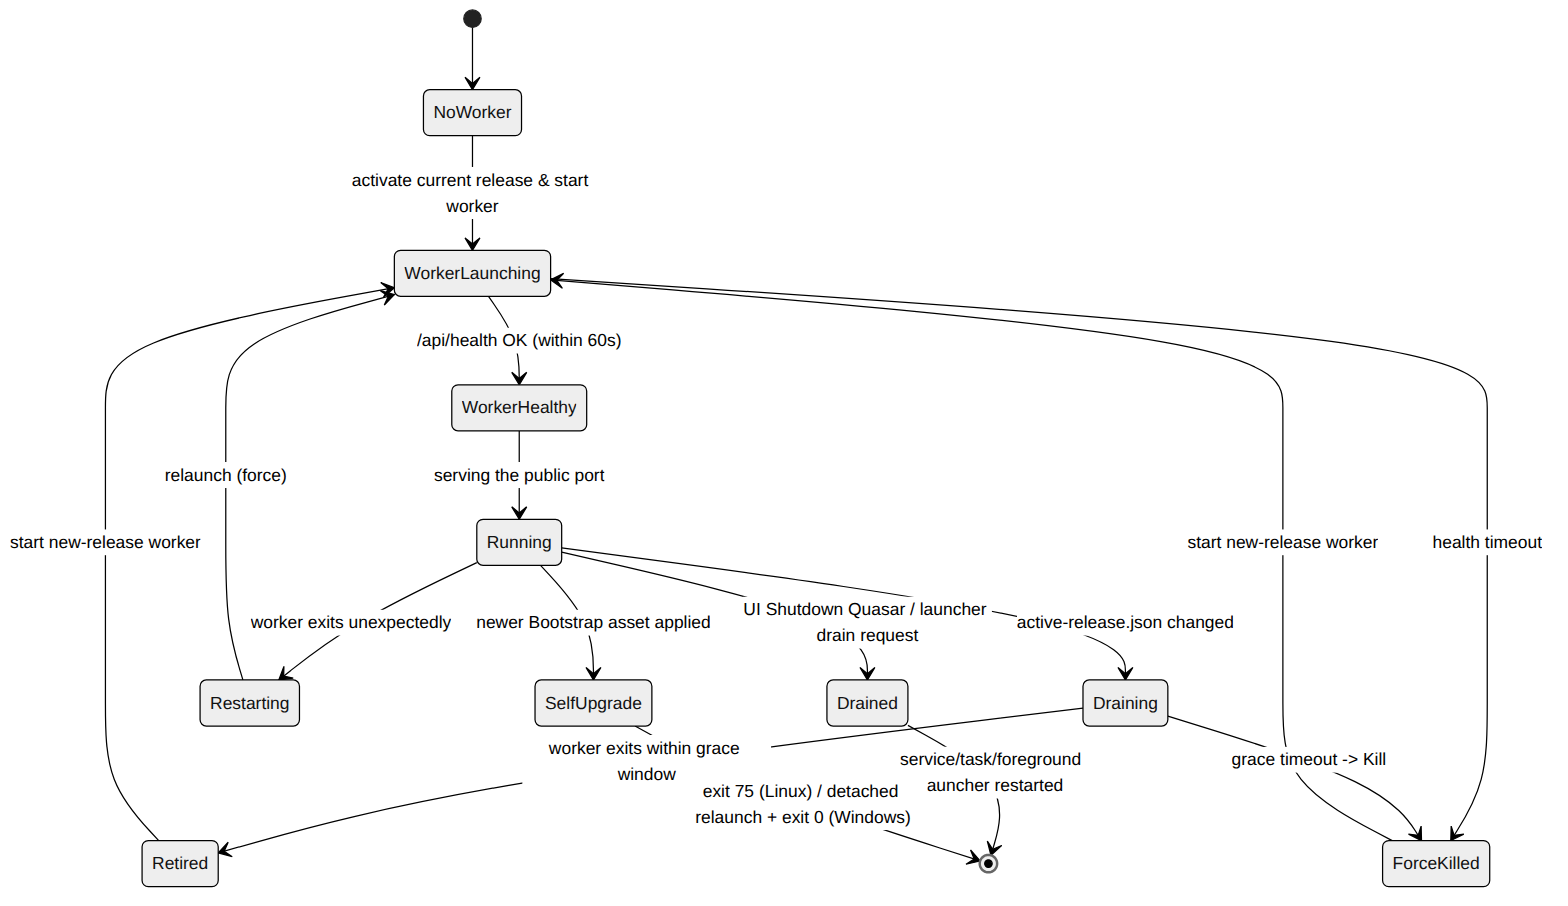
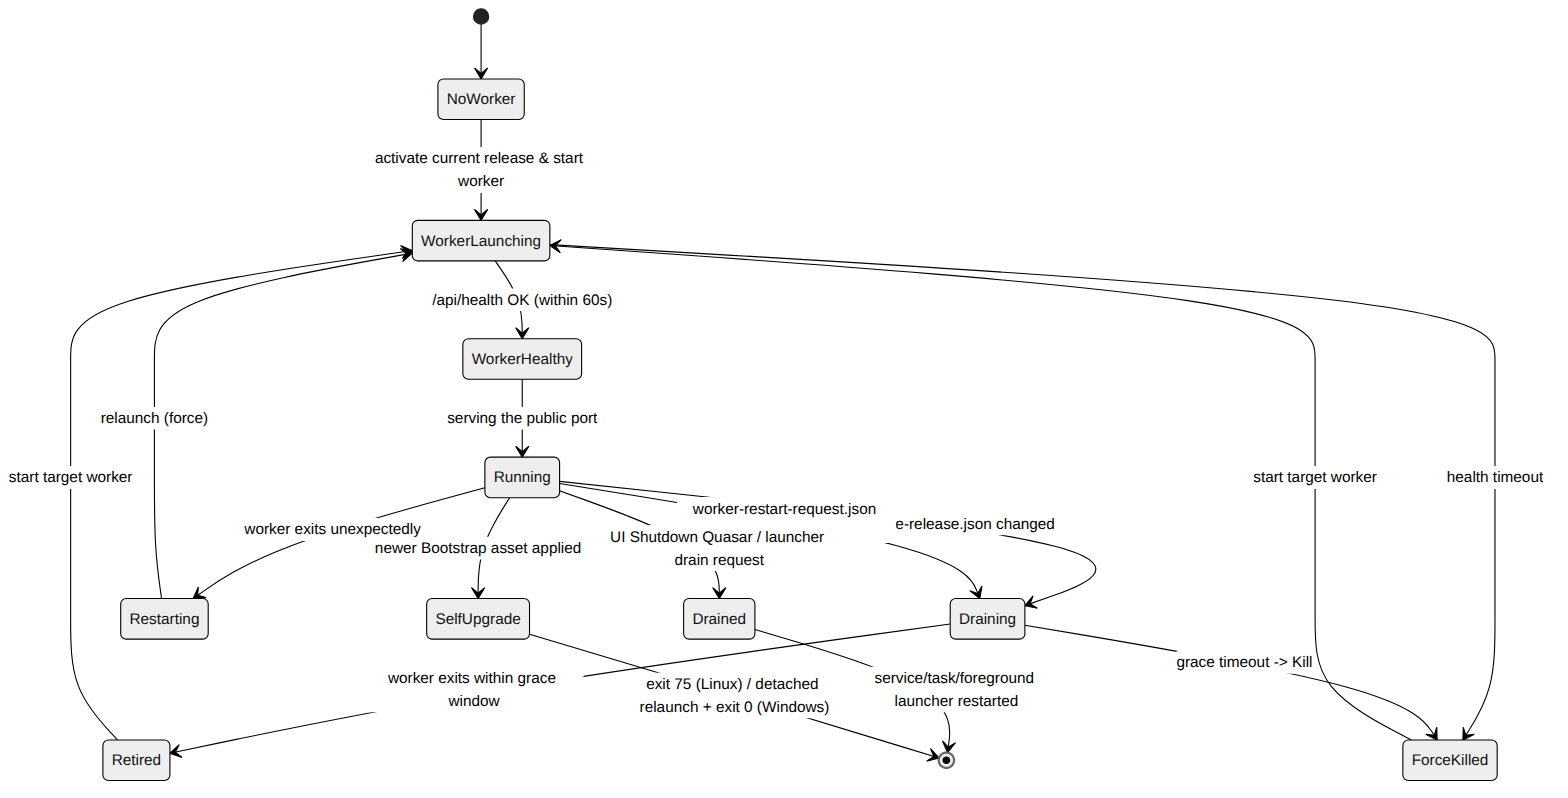
fix(ui-plugins): restart through Bootstrap
UI plugin changes keep the same active release pointer, so Bootstrap did not run the cutover path used by web UI updates.

Write a worker restart request that Bootstrap consumes to drain and relaunch the current active release, with a direct-stop fallback for older launchers.

diff --git a/Quasar.Bootstrap/Program.cs b/Quasar.Bootstrap/Program.cs
@@ -802,6 +802,8 @@ internal sealed class LauncherCoordinator : IHostedService, IDisposable
     private Task? _bootstrapUpdateMonitorTask;
     private FileSystemWatcher? _bootstrapUpdateRequestWatcher;
     private CancellationTokenSource? _bootstrapUpdateRequestDebounce;
+    private FileSystemWatcher? _workerRestartRequestWatcher;
+    private CancellationTokenSource? _workerRestartRequestDebounce;
     private readonly SemaphoreSlim _bootstrapUpdateLock = new(1, 1);
     private WorkerProcessHandle? _currentWorker;
     private bool _isStopping;
@@ -885,11 +887,14 @@ internal sealed class LauncherCoordinator : IHostedService, IDisposable
         Directory.CreateDirectory(MagnetarPaths.GetQuasarUpdatesDirectory());
         if (TryConsumeLauncherShutdownRequest())
             _logger.LogInformation("Cleared stale Quasar launcher drain request on startup.");
+        if (TryConsumeWorkerRestartRequest())
+            _logger.LogInformation("Cleared stale Quasar worker restart request on startup.");
 
         await EnsureInitialWebReleaseAvailableAsync(cancellationToken).ConfigureAwait(false);
         EnsureActiveReleasePointerExists();
         await ActivateCurrentReleaseAsync(force: false, cancellationToken).ConfigureAwait(false);
         StartWatchingReleasePointer();
+        StartWatchingWorkerRestartRequests();
         StartBootstrapUpdateMonitor();
         StartWatchingBootstrapUpdateRequests();
     }
@@ -904,6 +909,9 @@ internal sealed class LauncherCoordinator : IHostedService, IDisposable
         _bootstrapUpdateRequestWatcher?.Dispose();
         _bootstrapUpdateRequestDebounce?.Cancel();
         _bootstrapUpdateRequestDebounce?.Dispose();
+        _workerRestartRequestWatcher?.Dispose();
+        _workerRestartRequestDebounce?.Cancel();
+        _workerRestartRequestDebounce?.Dispose();
 
         WorkerProcessHandle? worker;
         lock (_sync)
@@ -937,6 +945,9 @@ internal sealed class LauncherCoordinator : IHostedService, IDisposable
         _bootstrapUpdateRequestWatcher?.Dispose();
         _bootstrapUpdateRequestDebounce?.Cancel();
         _bootstrapUpdateRequestDebounce?.Dispose();
+        _workerRestartRequestWatcher?.Dispose();
+        _workerRestartRequestDebounce?.Cancel();
+        _workerRestartRequestDebounce?.Dispose();
         _activationLock.Dispose();
         _bootstrapUpdateLock.Dispose();
         _healthClient.Dispose();
@@ -952,6 +963,64 @@ internal sealed class LauncherCoordinator : IHostedService, IDisposable
         _bootstrapUpdateMonitorTask = Task.Run(
             () => RunBootstrapUpdateMonitorAsync(_bootstrapUpdateMonitor.Token),
             CancellationToken.None);
+    }
+
+    private void StartWatchingWorkerRestartRequests()
+    {
+        var path = MagnetarPaths.GetQuasarWorkerRestartRequestPath();
+        var directory = Path.GetDirectoryName(path)!;
+        Directory.CreateDirectory(directory);
+
+        _workerRestartRequestWatcher = new FileSystemWatcher(directory)
+        {
+            Filter = Path.GetFileName(path),
+            NotifyFilter = NotifyFilters.FileName | NotifyFilters.LastWrite | NotifyFilters.CreationTime | NotifyFilters.Size,
+        };
+
+        _workerRestartRequestWatcher.Changed += HandleWorkerRestartRequestChanged;
+        _workerRestartRequestWatcher.Created += HandleWorkerRestartRequestChanged;
+        _workerRestartRequestWatcher.Renamed += HandleWorkerRestartRequestChanged;
+        _workerRestartRequestWatcher.EnableRaisingEvents = true;
+
+        if (File.Exists(path))
+            QueueWorkerRestartRequest();
+    }
+
+    private void HandleWorkerRestartRequestChanged(object sender, FileSystemEventArgs args)
+    {
+        QueueWorkerRestartRequest();
+    }
+
+    private void QueueWorkerRestartRequest()
+    {
+        CancellationTokenSource debounce;
+        lock (_sync)
+        {
+            _workerRestartRequestDebounce?.Cancel();
+            _workerRestartRequestDebounce?.Dispose();
+            _workerRestartRequestDebounce = new CancellationTokenSource();
+            debounce = _workerRestartRequestDebounce;
+        }
+
+        _ = Task.Run(async () =>
+        {
+            try
+            {
+                await Task.Delay(TimeSpan.FromMilliseconds(250), debounce.Token);
+                if (!TryConsumeWorkerRestartRequest())
+                    return;
+
+                _logger.LogInformation("Quasar worker restart requested by current worker.");
+                await RestartCurrentWorkerAsync(CancellationToken.None).ConfigureAwait(false);
+            }
+            catch (OperationCanceledException) when (debounce.IsCancellationRequested)
+            {
+            }
+            catch (Exception exception)
+            {
+                _logger.LogWarning(exception, "Requested Quasar worker restart failed.");
+            }
+        }, CancellationToken.None);
     }
 
     private void StartWatchingBootstrapUpdateRequests()
@@ -1630,6 +1699,64 @@ internal sealed class LauncherCoordinator : IHostedService, IDisposable
         }
     }
 
+    private async Task RestartCurrentWorkerAsync(CancellationToken cancellationToken)
+    {
+        if (IsDrained())
+            return;
+
+        await _activationLock.WaitAsync(cancellationToken).ConfigureAwait(false);
+        try
+        {
+            var pointer = ReadActiveReleasePointer();
+            if (pointer is null)
+                return;
+
+            pointer = Normalize(pointer);
+
+            WorkerProcessHandle? current;
+            lock (_sync)
+            {
+                if (_isDrained)
+                    return;
+
+                current = _currentWorker;
+                if (current is not null && ReferenceEquals(_currentWorker, current))
+                    _currentWorker = null;
+            }
+
+            if (current is not null && !current.Process.HasExited)
+            {
+                await DrainAndRetireWorkerAsync(
+                    current,
+                    TimeSpan.FromSeconds(2),
+                    stopManagedServers: false,
+                    cancellationToken).ConfigureAwait(false);
+            }
+
+            if (IsDrained())
+                return;
+
+            var nextWorker = await StartWorkerAsync(pointer, cancellationToken).ConfigureAwait(false);
+            if (nextWorker is null)
+            {
+                _logger.LogWarning("Quasar worker restart request could not start active release {Version}.", pointer.Version);
+                return;
+            }
+
+            lock (_sync)
+            {
+                _currentWorker = nextWorker;
+            }
+
+            CleanupInactiveManagedWebReleases(pointer.WorkingDirectory);
+            _logger.LogInformation("Restarted Quasar worker version {Version} at {BaseUri}.", pointer.Version, nextWorker.BaseUri);
+        }
+        finally
+        {
+            _activationLock.Release();
+        }
+    }
+
     private async Task ActivateSpecificReleaseAsync(QuasarActiveReleasePointer pointer, CancellationToken cancellationToken)
     {
         if (IsDrained())
@@ -1974,6 +2101,23 @@ internal sealed class LauncherCoordinator : IHostedService, IDisposable
     private static bool TryConsumeLauncherShutdownRequest()
     {
         var path = GetLauncherShutdownRequestPath();
+        if (!File.Exists(path))
+            return false;
+
+        try
+        {
+            File.Delete(path);
+        }
+        catch
+        {
+        }
+
+        return true;
+    }
+
+    private static bool TryConsumeWorkerRestartRequest()
+    {
+        var path = MagnetarPaths.GetQuasarWorkerRestartRequestPath();
         if (!File.Exists(path))
             return false;
 

diff --git a/Quasar/Services/QuasarShutdownService.cs b/Quasar/Services/QuasarShutdownService.cs
@@ -1,3 +1,4 @@
+using System.Text.Json;
 using Magnetar.Protocol.Runtime;
 using Quasar.Models;
 
@@ -9,6 +10,8 @@ namespace Quasar.Services;
 /// </summary>
 public sealed class QuasarShutdownService
 {
+    private static readonly TimeSpan LauncherRestartFallbackDelay = TimeSpan.FromSeconds(8);
+
     private readonly IHostApplicationLifetime _lifetime;
     private readonly DedicatedServerSupervisor _supervisor;
     private readonly WebServiceOptions _options;
@@ -95,9 +98,16 @@ public sealed class QuasarShutdownService
     {
         // BeginLauncherDrain marks the supervisor to preserve servers on this stop and
         // persists the runtime snapshot (including PIDs) so the next worker can adopt
-        // them; StopApplication then exits the worker for the launcher to respawn.
+        // them.
         progress?.Report("Restarting Quasar worker…");
         _supervisor.BeginLauncherDrain();
+
+        if (TryRequestLauncherWorkerRestart())
+        {
+            ScheduleRestartFallback();
+            return;
+        }
+
         _lifetime.StopApplication();
     }
 
@@ -131,4 +141,63 @@ public sealed class QuasarShutdownService
 
     private static string GetLauncherShutdownRequestPath() =>
         Path.Combine(MagnetarPaths.GetQuasarDirectory(), "launcher-shutdown-request");
+
+    private bool TryRequestLauncherWorkerRestart()
+    {
+        if (string.IsNullOrWhiteSpace(_options.LauncherToken))
+            return false;
+
+        var path = MagnetarPaths.GetQuasarWorkerRestartRequestPath();
+        try
+        {
+            Directory.CreateDirectory(Path.GetDirectoryName(path)!);
+            var json = JsonSerializer.Serialize(new
+            {
+                requestedAtUtc = DateTimeOffset.UtcNow,
+                reason = "worker-restart",
+                processId = Environment.ProcessId,
+            });
+            File.WriteAllText(path, json);
+            _logger.LogInformation("Requested Quasar worker restart through Bootstrap at {Path}.", path);
+            return true;
+        }
+        catch (Exception exception)
+        {
+            _logger.LogWarning(exception, "Failed writing Quasar worker restart request.");
+            return false;
+        }
+    }
+
+    private void ScheduleRestartFallback()
+    {
+        _ = Task.Run(async () =>
+        {
+            try
+            {
+                await Task.Delay(LauncherRestartFallbackDelay).ConfigureAwait(false);
+                TryDeleteWorkerRestartRequest();
+                _logger.LogWarning(
+                    "Bootstrap did not consume the Quasar worker restart request within {DelaySeconds:0} seconds; stopping worker directly.",
+                    LauncherRestartFallbackDelay.TotalSeconds);
+                _lifetime.StopApplication();
+            }
+            catch (Exception exception)
+            {
+                _logger.LogWarning(exception, "Quasar worker restart fallback failed.");
+            }
+        });
+    }
+
+    private static void TryDeleteWorkerRestartRequest()
+    {
+        try
+        {
+            var path = MagnetarPaths.GetQuasarWorkerRestartRequestPath();
+            if (File.Exists(path))
+                File.Delete(path);
+        }
+        catch
+        {
+        }
+    }
 }

diff --git a/Magnetar.Protocol/Runtime/MagnetarPaths.cs b/Magnetar.Protocol/Runtime/MagnetarPaths.cs
@@ -171,6 +171,9 @@ public static class MagnetarPaths
     public static string GetQuasarBootstrapUpdateRequestPath() =>
         Path.Combine(GetQuasarUpdatesDirectory(), "bootstrap-update-request.json");
 
+    public static string GetQuasarWorkerRestartRequestPath() =>
+        Path.Combine(GetQuasarUpdatesDirectory(), "worker-restart-request.json");
+
     // -------------------------------------------------------------------------
     // Managed runtime (auto-downloaded Magnetar + DS install)
     // -------------------------------------------------------------------------

diff --git a/Docs/QuasarArchitecture.md b/Docs/QuasarArchitecture.md
@@ -493,6 +493,9 @@ Linux-first cutover ownership:
 - activation promotes the staged payload into `ManagedRuntime/WebService/<version>/`
   and writes `Updates/active-release.json`
 - Bootstrap observes the pointer change, drains the old worker, then starts the managed worker
+- UI-plugin install/update/remove restarts write `Updates/worker-restart-request.json`;
+  Bootstrap consumes it, drains the old worker, then starts the same active release
+  so dynamic plugin assemblies are loaded from the updated install root
 - the browser and `Quasar.Agent` reconnect after the short listener gap
 - retiring workers only delete the discovery manifest if the on-disk worker id
   and process id still match themselves, so an old worker cannot remove the new
@@ -919,7 +922,7 @@ As of this document:
 - deep per-server profiler telemetry now exists: `Quasar.Agent` runs a continuous in-process profiler with `SafeContinuous` enabled by default, with per-server persisted `AgentProfilerMode` values and a global `Quasar:AgentProfilerMode` / `QUASAR_AGENT_PROFILER_MODE` fallback for older definitions. Safe mode uses Harmony prefix/postfix timing only for named high-level paths: frame/update, programmable-block script, physics, replication/network/session, GPS, and block-limit work. It deliberately avoids broad entity update method patching and detailed network-event hooks so the always-on default stays low overhead. Deep mode adds detailed network-event method hooks plus Magnetar-compatible Harmony IL call-site transpilers for `MySession.Update` / `UpdateComponents`, session component calls, replication simulation, entity update dispatch, parallel waits/callbacks, and Havok physics stepping internals. Runtime mode changes reconfigure Harmony patches so Safe, Deep, and Off can be selected without restarting the server. Hot-path measurements use numeric call-site ids and rolling accumulators, split main-thread vs off-thread time, and publish one-second windows with bounded top-lists for grids, scripts, entity types, system methods, physics detail, and network/replication/session work where the active patch depth can observe them. Patch failures are logged and the agent keeps the remaining profiler surface; entity call-site misses stay at high-level timing rather than adding broad method wrapping. Each `ProfilerSnapshot` rides the regular agent snapshot, is validated, and is kept in a small recent in-memory `ProfilerStoreService` ring (~720 samples per server, about 12 minutes at one snapshot per second), then surfaced on the Analytics page as game-loop timing and top grid/entity-type chart panels
 - Discord per-server options now include chat relay and simspeed alert rules. Discord-to-game chat is injected as `[Discord] <username>: <message>` so in-game readers see the Discord sender, and `DiscordChatRelayService` suppresses the matching game-history echo before it can post back to Discord as the server/bot author. `DiscordSimSpeedAlertService` evaluates fresh raw metric samples for connected/running agents on the registry change path, sending alerts through the configured simspeed channel or the server's analytics channel. Baseline rules detect sharp sample-to-sample drops across every unseen raw sample pair and sustained low average simspeed, and the Discord page exposes thresholds, windows, cooldowns, and per-rule enable switches. `DiscordBotService` also publishes aggregate managed-server state through Discord presence: the bot status reflects unhealthy/faulted vs active vs idle server instances, and its activity text shows active/total servers, player count, and issue/warning counts.
 - a unified GitHub-release-based update/publish pipeline now exists covering both Linux and Windows in a single combined release (`.github/workflows/release.yml`): each build produces `quasar-installer-linux.tar.gz` / `quasar-web-linux-x64.tar.gz` (Linux) and `quasar-installer-windows.zip` / `quasar-web-win-x64.zip` (Windows) under one tag; tag pushes and `main` publish full releases while pull requests publish draft prereleases; installer archives contain a single top-level `Quasar` directory for clean manual extraction; the release carries one combined `SHA256SUMS` covering every archive; release identity is normalized from `AssemblyInformationalVersion` and the active-release pointer (not numeric `AssemblyVersion`); four-part build tags such as `1.0.0.37` are canonical; every downloaded asset is verified against `SHA256SUMS`; the UI stages web updates and queues them for explicit activation from `/settings/updates`; Bootstrap self-upgrades from the launcher stream only when an actually-newer asset appears (see [Linux Deployment and Updates](LinuxDeploymentAndUpdates.md) and [Windows Deployment and Updates](WindowsDeploymentAndUpdates.md))
-- `Quasar.Bootstrap` runs as the stable launcher that owns the public port on both Linux (systemd service) and Windows (Scheduled Task): it activates web releases through the `Updates/active-release.json` pointer after staged payloads are promoted into `ManagedRuntime/WebService/<version>/`, and performs worker cutover by draining the old worker and starting the managed one on the same port — a launcher, not yet a reverse proxy — so the public endpoint stays stable across the short listener gap while managed Magnetar servers keep running; the UI shutdown action writes a launcher drain request, stops the worker, and leaves Bootstrap alive without respawning a worker until the service, task, or foreground launcher is restarted; on Linux the launcher exits with code 75 so systemd restarts it for self-upgrade; on Windows the launcher spawns a detached replacement `Quasar.exe serve --quiet` and exits 0, with the Scheduled Task restart-on-failure as the safety net
+- `Quasar.Bootstrap` runs as the stable launcher that owns the public port on both Linux (systemd service) and Windows (Scheduled Task): it activates web releases through the `Updates/active-release.json` pointer after staged payloads are promoted into `ManagedRuntime/WebService/<version>/`, and performs worker cutover by draining the old worker and starting the managed one on the same port — a launcher, not yet a reverse proxy — so the public endpoint stays stable across the short listener gap while managed Magnetar servers keep running; UI plugin restarts write `Updates/worker-restart-request.json` so Bootstrap performs the same drain/start sequence for the current active release; the UI shutdown action writes a launcher drain request, stops the worker, and leaves Bootstrap alive without respawning a worker until the service, task, or foreground launcher is restarted; on Linux the launcher exits with code 75 so systemd restarts it for self-upgrade; on Windows the launcher spawns a detached replacement `Quasar.exe serve --quiet` and exits 0, with the Scheduled Task restart-on-failure as the safety net
 - Windows deployment exists via `install.ps1`/`uninstall.ps1`: extracted release installs default to the installer root, source installs default to `%ProgramFiles%\Quasar`, and the installer registers a Scheduled Task (`Quasar`) that starts at boot and restarts the launcher on failure; the task runs Bootstrap directly with `serve --quiet --service`
 - staged relaunch now persists supervisor runtime state so managed DS processes survive worker turnover
 - obsolete `webui/` is removed from the repository

diff --git a/Docs/StateMachines/SelfUpdateAndRelease.md b/Docs/StateMachines/SelfUpdateAndRelease.md
@@ -65,10 +65,11 @@ stateDiagram-v2
     WorkerLaunching --> ForceKilled: health timeout
     WorkerHealthy --> Running: serving the public port
     Running --> Draining: active-release.json changed
+    Running --> Draining: worker-restart-request.json consumed
     Draining --> Retired: worker exits within grace window
     Draining --> ForceKilled: grace timeout -> Kill
-    Retired --> WorkerLaunching: start new-release worker
-    ForceKilled --> WorkerLaunching: start new-release worker
+    Retired --> WorkerLaunching: start target worker
+    ForceKilled --> WorkerLaunching: start target worker
     Running --> Restarting: worker exits unexpectedly
     Restarting --> WorkerLaunching: relaunch (force)
     Running --> Drained: UI Shutdown Quasar / launcher drain request
@@ -84,7 +85,7 @@ stateDiagram-v2
 | `NoWorker` | Startup before a worker exists; may download an initial UI worker. |
 | `WorkerLaunching` | Worker process started; polling `/api/health` (up to 60s). |
 | `WorkerHealthy` / `Running` | Worker serving the public port. |
-| `Draining` | Pointer change detected; the launcher posts `/api/internal/drain` (authenticated with the per-session launcher token) and waits for graceful exit. |
+| `Draining` | Pointer change or `Updates/worker-restart-request.json` detected; the launcher posts `/api/internal/drain` (authenticated with the per-session launcher token) and waits for graceful exit. Pointer changes start the new active release; worker-restart requests start the same active release again. |
 | `Retired` / `ForceKilled` | Old worker exited within the grace window, or was killed after timeout. |
 | `Restarting` | Worker exited unexpectedly (not a launcher request); relaunched with `force`. |
 | `Drained` | UI **Shutdown Quasar** requested a launcher drain; Bootstrap stays alive without respawning a worker until the service, task, or foreground launcher is restarted. |

diff --git a/Docs/QuasarPluginSystem.md b/Docs/QuasarPluginSystem.md
@@ -221,11 +221,14 @@ Install, update, and remove operations change files on disk only. The active
 plugin assembly set is still loaded at Quasar worker startup, so each operation
 requires a Quasar restart before it takes effect. When that restart is triggered
 from the UI Plugins page, the browser shows restart progress and polls
-`/api/health` until the replacement worker is ready. The restart watcher is
-stored in browser session storage, so refreshing the page resumes the same
-progress overlay and health polling. Managed Space Engineers server processes
-stay detached during the Quasar worker restart and are adopted as running by the
-replacement worker when their process id is still alive.
+`/api/health` until the replacement worker is ready. The worker writes
+`Updates/worker-restart-request.json`; Bootstrap consumes that request, drains
+the current worker through `/api/internal/drain`, and starts the same active
+release again so the plugin assembly set is rebuilt from disk. The restart
+watcher is stored in browser session storage, so refreshing the page resumes the
+same progress overlay and health polling. Managed Space Engineers server
+processes stay detached during the Quasar worker restart and are adopted as
+running by the replacement worker when their process id is still alive.
 
 QuasarHub descriptors can set `<ImplicitLoading>true</ImplicitLoading>` for
 reviewed plugins that should be present by default. Quasar installs or updates
